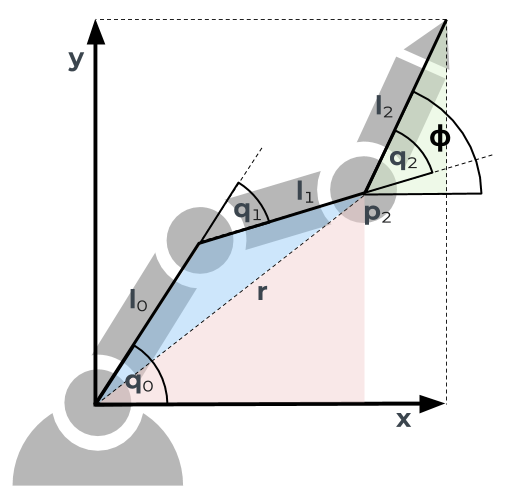
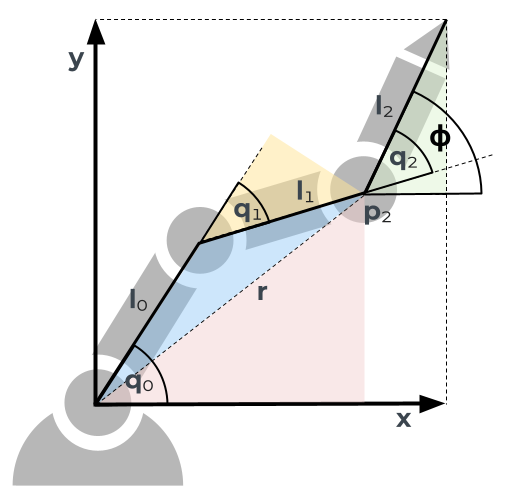
update content

diff --git a/content/inversekinematics.md b/content/inversekinematics.md
@@ -26,7 +26,7 @@ $$y_{O,ee} = 0.15 \cdot sin(q_0) + 0.15 \cdot sin(q_0+q_1) + 0.03 \cdot sin(q_0+
 
 # Geometric Inverse Kinematics
 
-However, in this article I want to show you a goemetric approach. In the following image you see our robot with an arbitrary pose. Given x, y and $\phi$, we want to compute the three joint angles $q_0$, $q_1$ and $q_2$. I marked three trianlges in the image, a green, red and blue one. Let's look what we know about these triangles.
+However, in this article I want to show you a goemetric approach. In the following image you see our robot with an arbitrary pose. Given x, y and $\phi$, we want to compute the three joint angles $q_0$, $q_1$ and $q_2$. I marked four trianlges in the image, a green, red, yellow and blue one. Let's look what we know about these triangles.
 
 ![geometric](../images/inverse/geometric.png "Geometric Inverse Kinematics")
 
@@ -46,10 +46,32 @@ $$
 
 ## Red triangle
 
-This one is really simple. We just use the Pythagorean theorem to compute the hypotenuse r by using the x- and y- coordinate of $p_2$.
+The red triangle has a right angle at the bottom right corner. We can therefore use the Pythagorean theorem to compute the hypotenuse r by using the x- and y- coordinate of $p_2$.
 
 $$r^2 = x'^2 + y'^2$$
 
+Furthermore, we can compute the the angle at the bottom left corner with $atan\Big(\frac{x'}{y'}\Big)$
+
 ## Blue triangle
+
+Now things get more complicated! The blue triangle has no right angle. We use thefore the *Law of cosines* $a^2=b^2+c^2-2bc\cos\alpha$ where a, b and c are the sides of the triangle and $\alpha$ is the angle between the sides b and c. In our triangle, $a = r$, $b = l_0$, $c = l_1$ and $\alpha = \pi - q_1$. By rearranging the formula and plugging in the equation for $r^2$ from the red triangle, we are able to compute the angle of the second joint $q_1$.
+
+$$q_1  = acos\Big(\frac{x'^2 + y'^2 - l_0^2 - l_1^2}{2l_0l_1}\Big)$$
+
+## Yellow triangle
+
+The yellow triangle has a right angle at the top. We therefore know, that the side right of the right angle has the length $l_1 \cdot cos(q_1)$ and the side left of the right angle has the length $l_1 \cdot sin(q_1)$
+
+## Blue-yellow triangle
+
+The angle of the first joint $q_0$ is the sum of the bottom left angles of the blue and the red triangle. We already computed the angle for the red triangle. The angle for the blue triangle can be computed by looking at the triangle consisting of the blue and the yellow triangle. It has a right angle at the top. The angle at the bottom left is therefore $-atan\Big(\frac{l_1 \cdot sin(q_1)}{l_0 + l_1 \cdot cos(q_1)}\Big)$ and we can compute $q_0$
+
+$$q_0 = atan\Big(\frac{x'}{y'}\Big) - atan\Big(\frac{l_1 \cdot sin(q_1)}{l_0 + l_1 \cdot cos(q_1)}\Big)$$
+
+The only angle missing is now $q_2$. We can compute it with $q_2 = \phi - q_1 - q_0$.
+
+## Putting it all together
+
+In the interactive demo below, you can see the inverse kinematics in action. With the sliders on top you can modify x, y and $\phi$. At the bottom you see the values for the three joint angles. The demo uses exactly the formulas we just developed.
 
 <iframe src="https://kinematics.robotics-explained.com?inverse" title="Robot Kinematics" width="100%" height="500" frameborder="0"></iframe>
